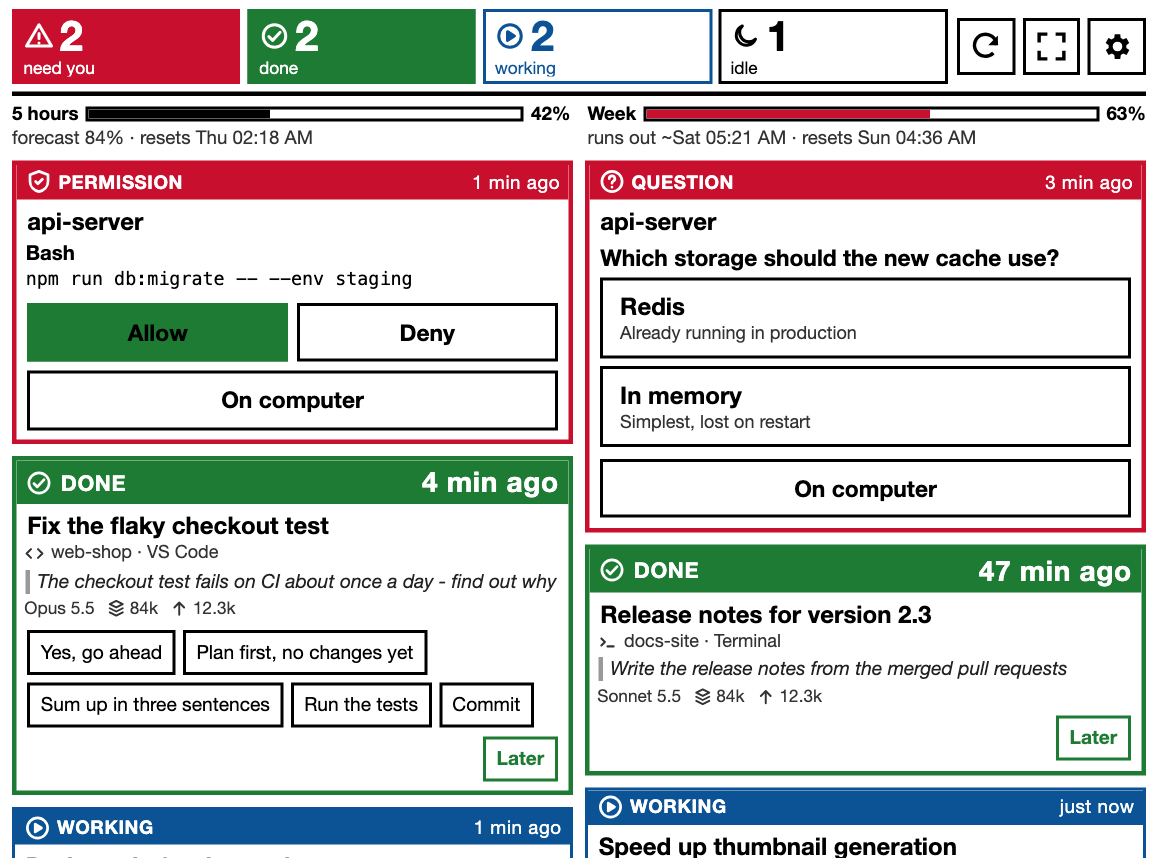
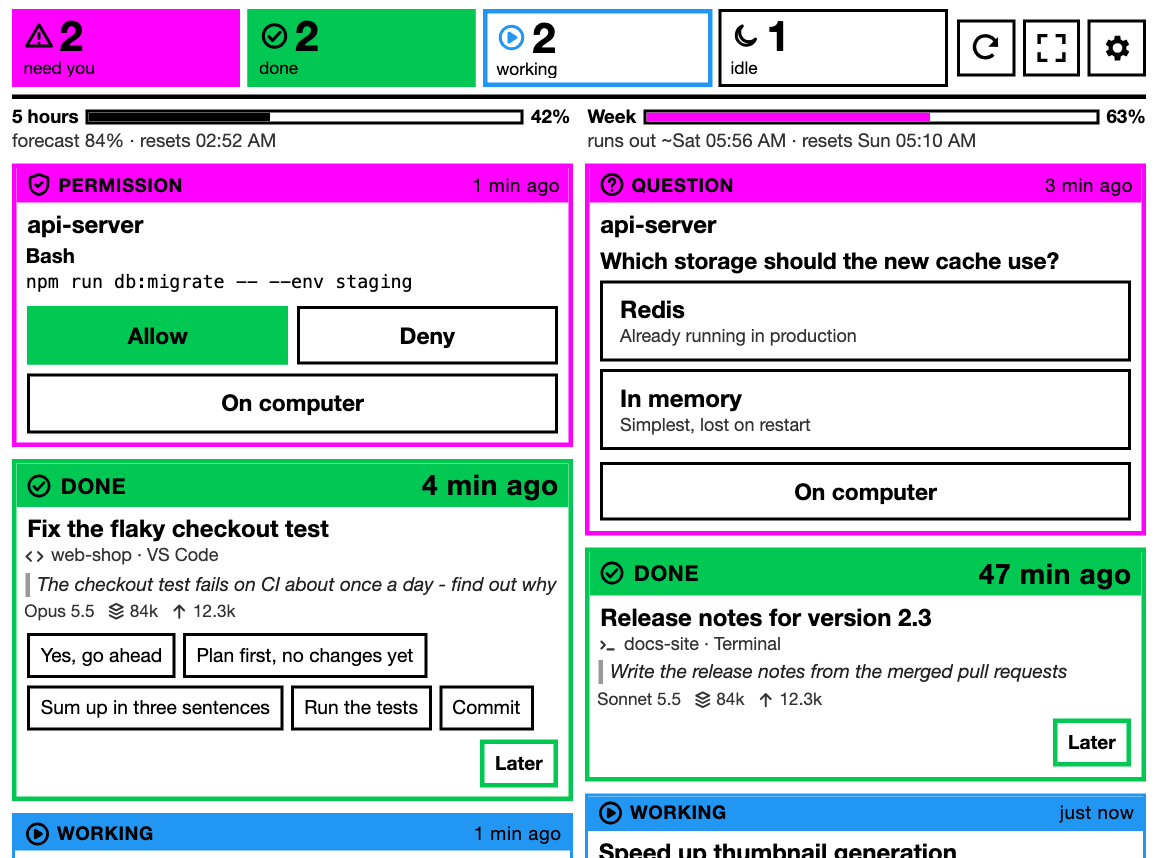
docs: README checked end to end - plugin commands, colors, downloads, accurate claims; new screenshots

diff --git a/src/updates.js b/src/updates.js
@@ -4,7 +4,7 @@
 //   app      the menu-bar app (server bundled inside it): download the new app
 //            (Tauri's signed updater once release signing is set up)
 //   git      a git checkout: `git pull --ff-only`, then restart the panel
-//   plugin   Claude Code plugin: `/plugin update inkglance` (Claude Code's job)
+//   plugin   Claude Code plugin: `claude plugin update inkglance@inkglance` (Claude Code's job)
 //
 // The check sends one anonymous request to the GitHub API (no identifiers) and can
 // be switched off (`updateCheck: false`).

diff --git a/README.md b/README.md
@@ -30,18 +30,18 @@ is plain HTML and works in any browser.
 ## What it shows
 
 - **Four tiles** at the top, readable from across the desk: waiting for you,
-  done (your turn), working, idle. A tile that wants you is filled red or
-  green.
+  done (your turn), working, idle. A tile that wants you is filled with its
+  color.
 - **One board of cards**, most urgent first, packed into columns without gaps.
-  Every card has a state band with an icon and the time:
-  - **Waiting** (red): permission prompts and Claude's questions, answerable
+  Active cards have a colored state band with an icon and the time:
+  - **Waiting**: permission prompts and Claude's questions, answerable
     right on the reader - *Allow* / *Deny*, or tap an option.
-  - **Done · your turn** (green): the session's turn ended and it waits for
+  - **Done · your turn**: the session's turn ended and it waits for
     your next message. A big counter ("12 min ago"), one-tap replies, and
     *Later* to put it aside until its next turn ends. The reader flashes, the
     computer plays a sound, the menu-bar icon shows `✓2` - the nudge to switch
     windows.
-  - **Working** (blue): current tool and last prompt.
+  - **Working**: current tool and last prompt.
   - **Idle**: two quiet lines; long-forgotten sessions collapse into one.
 - **Per session** (you choose which): title, where it runs (Terminal, VS Code,
   Claude app), what it waits for, current tool, last prompt, model and effort,
@@ -49,8 +49,11 @@ is plain HTML and works in any browser.
 - **Plan limits** on one row: 5-hour and weekly usage, forecast at the current
   pace ("runs out ~Sat 05:18") and reset; tap for the **limits screen** with
   charts.
-- Fullscreen, 1-3 columns, landscape, text size, colors or monochrome,
-  English and Polish. Every setting is a big button - nothing to type on e-ink.
+- **Colors you pick** for each state (color e-ink shows bright colors best;
+  defaults are magenta, green and blue, and a color test page helps choose),
+  or monochrome.
+- Fullscreen, 1-3 columns, landscape, text size, English and Polish. Settings
+  are big buttons - the only typing is for your own reply buttons.
 
 ## Requirements
 
@@ -70,11 +73,18 @@ you every hook twice.
 
 ### A. As a Claude Code plugin (macOS, Linux)
 
-In Claude Code (terminal; in VS Code and the desktop app you can also add
-plugins from the plugin menu):
+In a Claude Code session (terminal, VS Code or the desktop app):
 
 ```
-/plugin install inkglance --marketplace maciejdzierzek/inkglance
+/plugin marketplace add maciejdzierzek/inkglance
+/plugin install inkglance@inkglance
+```
+
+or in one line from a terminal:
+`claude plugin install inkglance --marketplace maciejdzierzek/inkglance`.
+Restart Claude Code, then run:
+
+```
 /inkglance:setup
 ```
 
@@ -97,6 +107,8 @@ Prefer to be guided? Open Claude Code in the folder and say *"Follow
 commands/setup.md to set up InkGlance for me"*.
 
 ### Try it first, without touching Claude Code
+
+In a clone (step B without `hooks:install`):
 
 ```sh
 npm run demo              # made-up sessions on port 4800; prints the address
@@ -127,9 +139,11 @@ again.
 npm run tray:install   # builds InkGlance.app, installs it to ~/Applications, opens it
 ```
 
-Building needs Rust and the Xcode command-line tools; the app runs the server
-with your Node. Ready-made downloads come with the first release (unsigned at
-first: macOS will ask you to confirm opening it).
+Or download it from [Releases](https://github.com/maciejdzierzek/inkglance/releases)
+(macOS `.dmg`; a Windows installer as a preview). The builds are not signed
+yet: macOS asks you to confirm opening the app (right-click → *Open*), Windows
+SmartScreen asks too. Building yourself needs Rust and the Xcode command-line
+tools. Either way, the app runs the server with your own Node.
 
 An eye icon in the menu bar - with the number of sessions waiting for you and
 `✓N` for finished turns - and a menu: status, the address for the reader, *Open
@@ -251,6 +265,7 @@ binary path and token can also be changed on the panel's **Settings** screen.
 | `hideIdleAfterHours` | `24` | Collapse idle sessions older than this (0 = never) |
 | `fontScale` | `1` | `0.875` to `1.5` |
 | `color` | `true` | `false` for monochrome screens |
+| `colorNeedsYou`, `colorFinished`, `colorWorking` | `#ff00ff`, `#00c853`, `#2196f3` | State colors, any `#rrggbb`; pick them on the reader in Settings → Display |
 | `showDiagnostics` | `true` | Viewport and browser line in the footer, also reported to the log |
 | `alertOn` | `["needsYou", "finished"]` | What to alert on |
 | `macSound`, `macSoundName` | `true`, `Glass` | Sound on the computer: `Glass`, `Ping`, `Submarine`, `Hero` |
@@ -286,9 +301,10 @@ a badge in the panel, in Settings → About and in the menu-bar app's menu.
   `~/.local/share/inkglance`): *Install* in Settings → About, on the computer
   itself, runs `git pull --ff-only` and restarts the panel. Note: this brings
   the latest commit of your branch, not exactly the release.
-- **Plugin hooks**: `/plugin update inkglance` (or the plugin menu). Plugins from
-  other authors do not update automatically by default. Run `/inkglance:setup`
-  afterwards to update the server too.
+- **Plugin hooks**: `claude plugin marketplace update inkglance`, then
+  `claude plugin update inkglance@inkglance` (or the `/plugin` menu) and
+  restart Claude Code. Plugins from other authors do not update automatically
+  by default. Run `/inkglance:setup` afterwards to update the server too.
 - **Menu-bar app**: the menu item opens the release page; download and replace
   the app. One-click signed updates are planned.
 
@@ -352,8 +368,9 @@ See [SECURITY.md](SECURITY.md) for reporting vulnerabilities.
 - **Does it work over the internet?** Not by design. Over a VPN such as
   Tailscale it works like at home (add the name to `allowedHosts` if you use
   one).
-- **Does it slow Claude Code down?** No: hooks wait in the background and give
-  up in about a second when the panel does not answer.
+- **Does it slow Claude Code down?** No. When the panel is not running, the
+  hooks exit at once. Replies wait in the background; permission requests are
+  held only while you are away from the keyboard (the default).
 
 ## Troubleshooting
 
@@ -375,8 +392,8 @@ See [SECURITY.md](SECURITY.md) for reporting vulnerabilities.
 
 ## Uninstall
 
-1. Hooks: `/plugin uninstall inkglance` (plugin) or `npm run hooks:uninstall`
-   (manual).
+1. Hooks: `claude plugin uninstall inkglance@inkglance` (plugin) or
+   `npm run hooks:uninstall` (manual).
 2. The app: switch off *Open at login*, *Quit* it from its menu, delete
    `~/Applications/InkGlance.app`. Or the service: `npm run service:uninstall`.
 3. Files: `~/.local/share/inkglance` (plugin's server), `~/.config/inkglance/`
@@ -399,7 +416,8 @@ See [SECURITY.md](SECURITY.md) for reporting vulnerabilities.
 
 ```sh
 npm test          # unit tests
-npm run check     # private-data guard, secret scan (gitleaks), tests
+npm run lint      # ESLint + Knip (unused files and exports)
+npm run check     # private-data guard, gitleaks, lint, ShellCheck, tests (runs before every push)
 npm run demo      # the panel with made-up data, for screenshots
 git config core.hooksPath .githooks   # once per clone
 ```

diff --git a/docs/releasing.md b/docs/releasing.md
@@ -33,7 +33,7 @@
 ## Plugin
 
 The Claude Code plugin is the repository itself (`.claude-plugin/`). Users get
-new versions with `/plugin update inkglance`. Validate before a release:
+new versions with `claude plugin update inkglance@inkglance`. Validate before a release:
 `claude plugin validate .`
 
 ## Third-party notices
